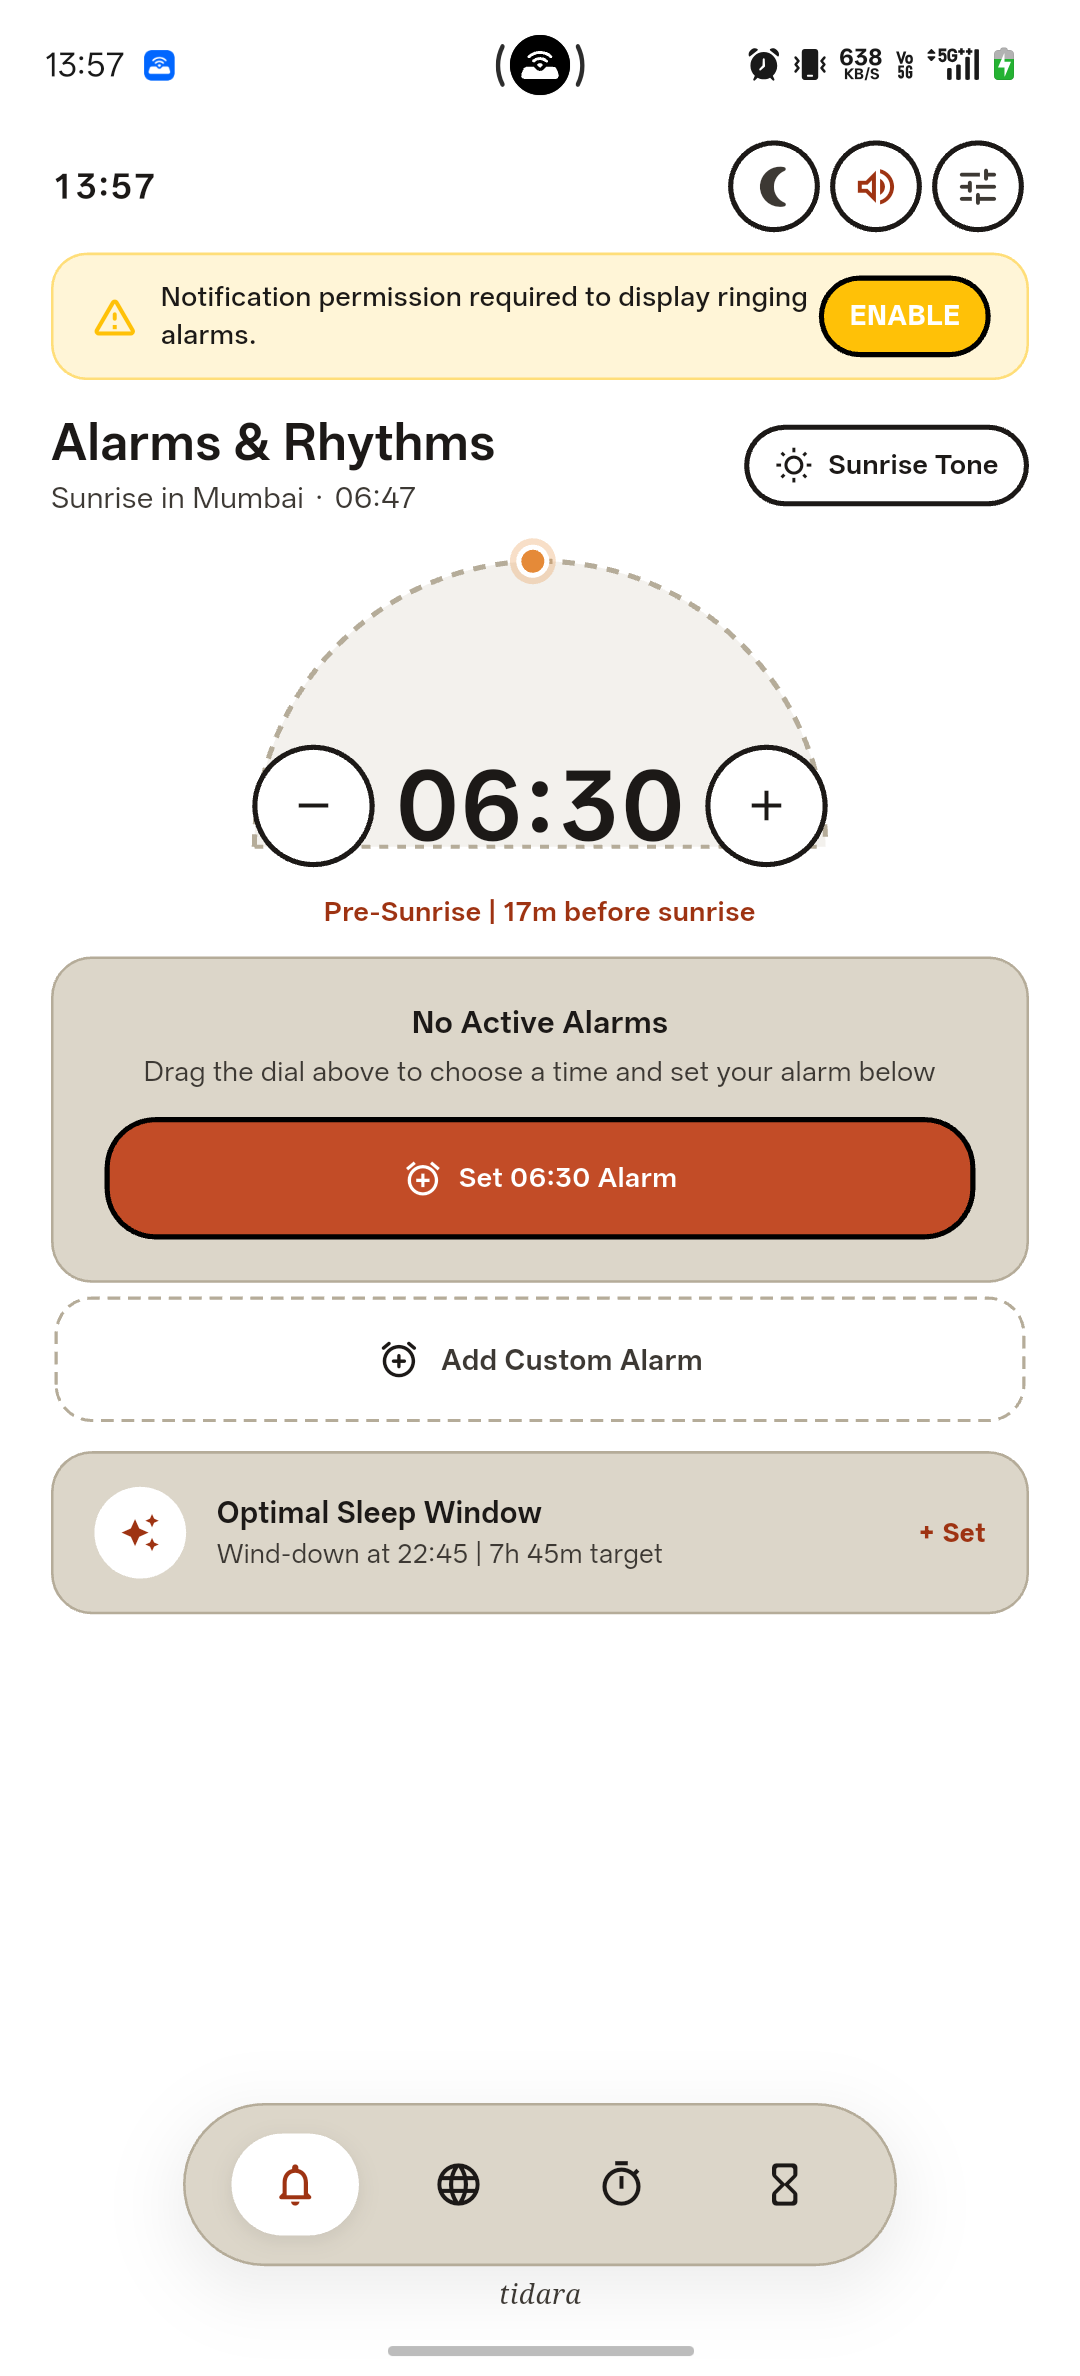
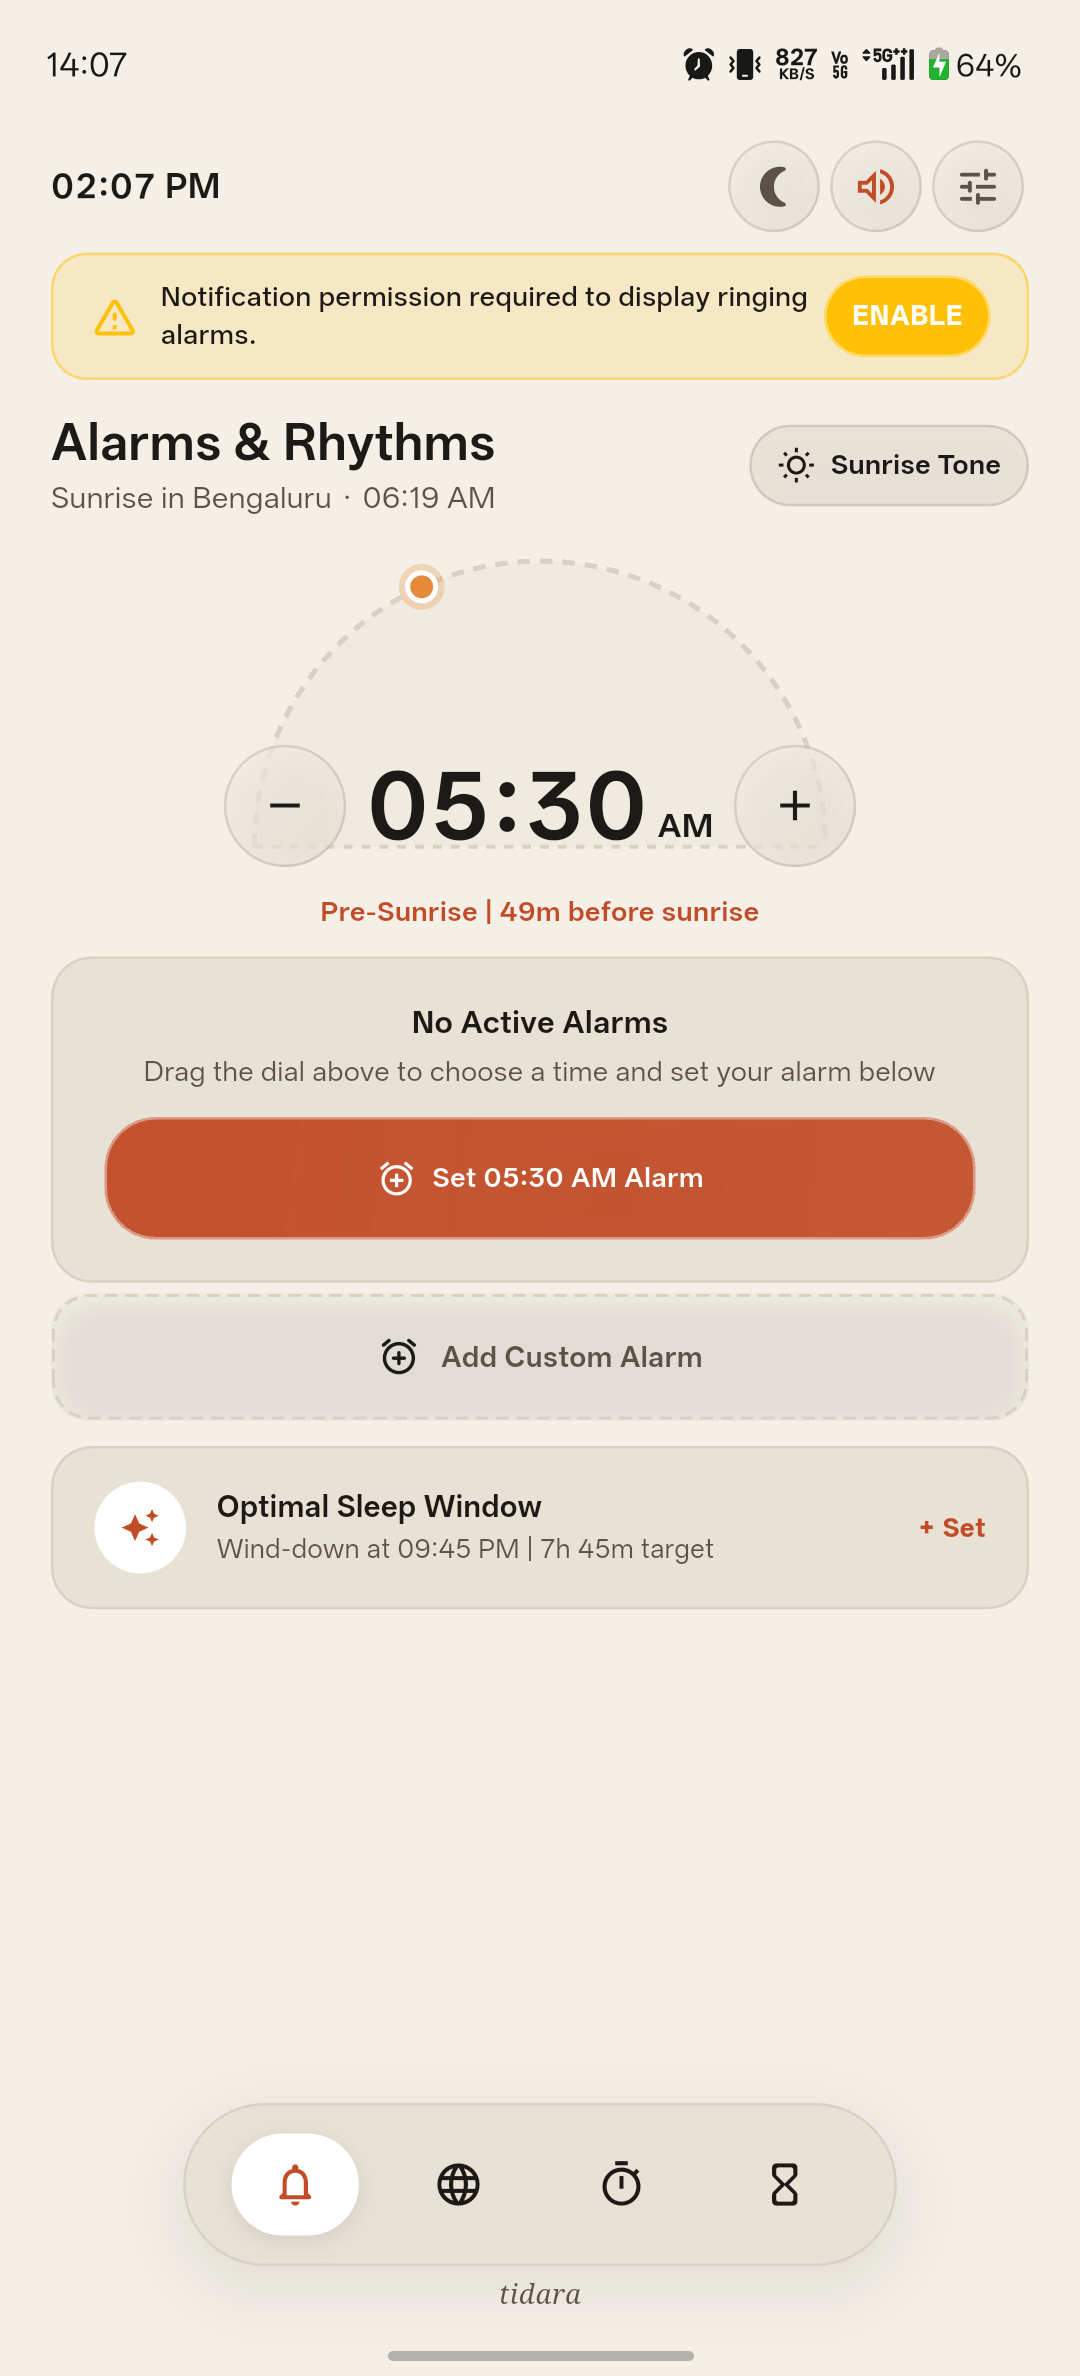
docs: humanize UX decisions and update release screenshots

diff --git a/README.md b/README.md
@@ -41,7 +41,7 @@ Pre-built release package for Android:
 - **Sunrise Arc Dial:** Drag a bead along the solar arc to schedule alarms visually relative to natural dawn (e.g. *17m before sunrise*).
 - **NOAA Solar Calculation:** Computes exact dawn, sunrise, solar noon, and sunset for any coordinate on Earth with polar latitude domain guards.
 - **Optimal Sleep Window:** Calculates target bedtime based on healthy sleep duration targets (e.g. 7h 45m wind-down reminder).
-- **Soothing Acoustic Awakening:** Built-in preview button and synthesized harmonic tones (432Hz, 528Hz, 639Hz) to avoid harsh, stressful alarm tones.
+- **Calm Synthesized Tones:** Built-in preview button and synthesized harmonic chime tones (432 Hz, 528 Hz, 639 Hz) generated on-device without audio asset bloat.
 - **Native Android OS Integration:** Uses Kotlin `MethodChannel` with `AlarmManager.setExactAndAllowWhileIdle()`, `WakeLock`, and full-screen lockscreen wake intents (`FullScreenIntent`).
 - **Reboot Persistence:** `TidaraBootReceiver` restores scheduled alarms after device restarts or timezone changes.
 
@@ -59,7 +59,7 @@ Pre-built release package for Android:
   - `48m` (Double Interval)
   - `90m` (Deep Flow)
   - *Custom duration entry:* Supports any duration from 1 to 180 minutes.
-- **Acoustic Soundscapes:** Zero-dependency, on-device 16-bit PCM RIFF WAVE synthesis for solfeggio focus tones.
+- **Acoustic Soundscapes:** Zero-dependency, on-device 16-bit PCM RIFF WAVE synthesis for calm focus chimes.
 
 ### 4. Precision Chronometer
 - **Monotonic Clock:** Tracks elapsed microsecond deltas independent of UI frame rates.
@@ -69,7 +69,7 @@ Pre-built release package for Android:
 
 ### 5. Design System & Accessibility
 - **Dual-Mode Liquid Glass UI:** Translucent glass cards and buttons in Warm Light (`#F4F0E8`) and Deep Dark (`#14110F`) palettes.
-- **WCAG 2.1 AA Compliance:** Every foreground/background pair meets >= 4.5:1 contrast (>= 3:1 for large accent elements).
+- **Accessibility & Contrast:** Primary and secondary text meet standard WCAG 2.1 AA contrast ratios (primary text exceeding 14:1, secondary text at 4.5:1, and large interactive buttons exceeding 3:1).
 - **High-Contrast Mode Setting:** Optional toggle for users who need maximum contrast without translucency.
 - **Plain-Language Setting:** Toggle that simplifies all labels into everyday English.
 
@@ -79,13 +79,13 @@ Pre-built release package for Android:
 
 *These design choices reflect my goals for the app's user experience:*
 
-1. **Alarms tied to sunrise and the optimal sleep window:** Standard alarms focus solely on waking up at an arbitrary number, ignoring natural circadian rhythms. I tied the alarm scrubber to local sunrise and added the optimal sleep window card so users can visually align their sleep cycle with natural daylight and plan an adequate wind-down schedule.
-2. **High-contrast mode and WCAG 2.1 AA standards:** While liquid glass aesthetics look modern, legibility is non-negotiable. I ensured all text and icon pairs meet strict 4.5:1 contrast across both light and dark themes, and added a dedicated High-Contrast toggle for users who need crisp visual clarity without subtle transparency.
-3. **Plain-language labels as a first-class setting:** Not everyone wants astronomical or esoteric terms when setting an alarm. I created a plain-language setting that simplifies labels across all screens (e.g. changing "Dawn Rhythm" to "Alarm" and "Solar Focus" to "Focus Session") so users can choose between poetic and everyday terminology.
-4. **Armillary globe with live day and night display:** A flat list of city names and GMT numbers does not give users an intuitive feel for global time. The 3D globe with solar terminator curves lets users immediately see whether a colleague or family member across the world is in daylight, twilight, or the middle of the night.
-5. **Hourglass visualization and curated focus intervals:** Standard digital countdown clocks induce time anxiety. The tactile sand animation offers a calming visual sense of time elapsing. I selected presets for 12m (quick sprint), 24m (traditional focus block), 25m (Pomodoro), 48m (double session), and 90m (deep ultradian rhythm) to cover how people actually study and work.
-6. **Gentle "Solar Awakening" preview and harmonic tones:** Jarring smartphone alarms trigger an immediate morning stress spike. I synthesized harmonic solfeggio frequencies (432Hz, 528Hz, 639Hz) directly in code and added a quick "Preview Tone" chip so users can audition sounds at comfortable volumes and wake up peacefully.
-7. **What I would improve next:** The app is currently Android-only because exact background alarms and wake locks rely on native Kotlin platform services. My next milestone is writing the native iOS counterpart using the `UserNotifications` framework and iOS Live Activities for timer tracking.
+1. **Alarms tied to sunrise and target sleep duration:** Most clock apps require calculating morning alarms and bedtime backwards in your head. I designed the alarm dial to visually tie wake-up times to local dawn, alongside a target sleep duration indicator (defaulting to 7h 45m). This gives users a direct visual reference between when they want to wake up, local daylight, and when they should wind down in the evening.
+2. **Legibility first (WCAG 2.1 AA) and high-contrast support:** Translucent and frosted glass aesthetics often suffer from low contrast. I benchmarked the palette to maintain standard WCAG AA contrast (primary text exceeds 14:1, secondary text meets 4.5:1, and large interactive buttons exceed 3:1). I also implemented an optional High-Contrast toggle that replaces translucency with solid surfaces for users who prioritize maximum readability in direct sunlight or with visual impairments.
+3. **Plain-language labels as a configurable setting:** For a clock with solar and astronomical calculations, technical terminology (like 'solar noon', 'nautical twilight', or 'horological presets') can feel overwhelming. I built a Plain Language mode (enabled by default) that maps terms to everyday equivalents like 'Alarm', 'Focus Session', and 'Target Sleep'. Users who appreciate astronomical details can toggle the advanced horological terminology on at any time.
+4. **Interactive globe showing day and night:** A plain list of timezones and GMT offsets makes it hard to quickly grasp whether it's day or night for someone in another part of the world. The interactive 3D globe calculates the solar terminator in real time, showing where daylight falls across the Earth so users can tell at a glance if a contact is likely awake, in daylight, or asleep before calling.
+5. **Visual sand hourglass and practical focus intervals:** Watching numbers tick down second-by-second can be distracting when trying to focus. A visual sand animation provides a calmer representation of time passing. I included practical intervals (12m short sprint, 24m & 25m standard focus/Pomodoro blocks, 48m extended sessions, and 90m deep work blocks), alongside a custom dial allowing 1 to 180 minutes.
+6. **Calm synthesized acoustic tones with preview:** Default mobile alarms are often sharp, piercing beeps. I built a lightweight, on-device audio generator that synthesizes smooth, warm harmonic tones (generating 16-bit PCM waveforms at 432 Hz, 528 Hz, and 639 Hz without bundled heavy audio assets). I also placed an inline 'Preview Tone' button right on the alarm card so users can comfortably test the sound and volume before setting an alarm.
+7. **Possible future improvements:** The current implementation focuses exclusively on Android to leverage low-level OS capabilities like `AlarmManager.setExactAndAllowWhileIdle` and full-screen lockscreen wake intents. A natural next step would be exploring an iOS port using `UserNotifications` and iOS 16.1+ Live Activities, as well as letting users import custom audio files for alarms.
 
 ---
 
@@ -187,7 +187,7 @@ cd ..
 - **Android Only:** iOS and desktop builds are not supported due to native background service dependencies.
 - **Exact Alarm Permissions:** On Android 12+ (API 31+), exact alarms require the `SCHEDULE_EXACT_ALARM` or `USE_EXACT_ALARM` permission. The app displays an in-app banner if permission is revoked.
 - **OEM Battery Restrictions:** Aggressive battery management profiles (e.g. Xiaomi MIUI, OnePlus OxygenOS, Samsung One UI) can delay background alarms unless battery optimization is set to "Unrestricted" for the app.
-- **Tested Devices:** Verified on physical Android hardware (Android 14 / API 34) and standard Android emulators.
+- **Tested Devices:** Verified on physical hardware (OnePlus 12R / CPH2585 running Android 16 / OxygenOS, API 36) and standard Android Studio emulators (API 34).
 
 ---
 
